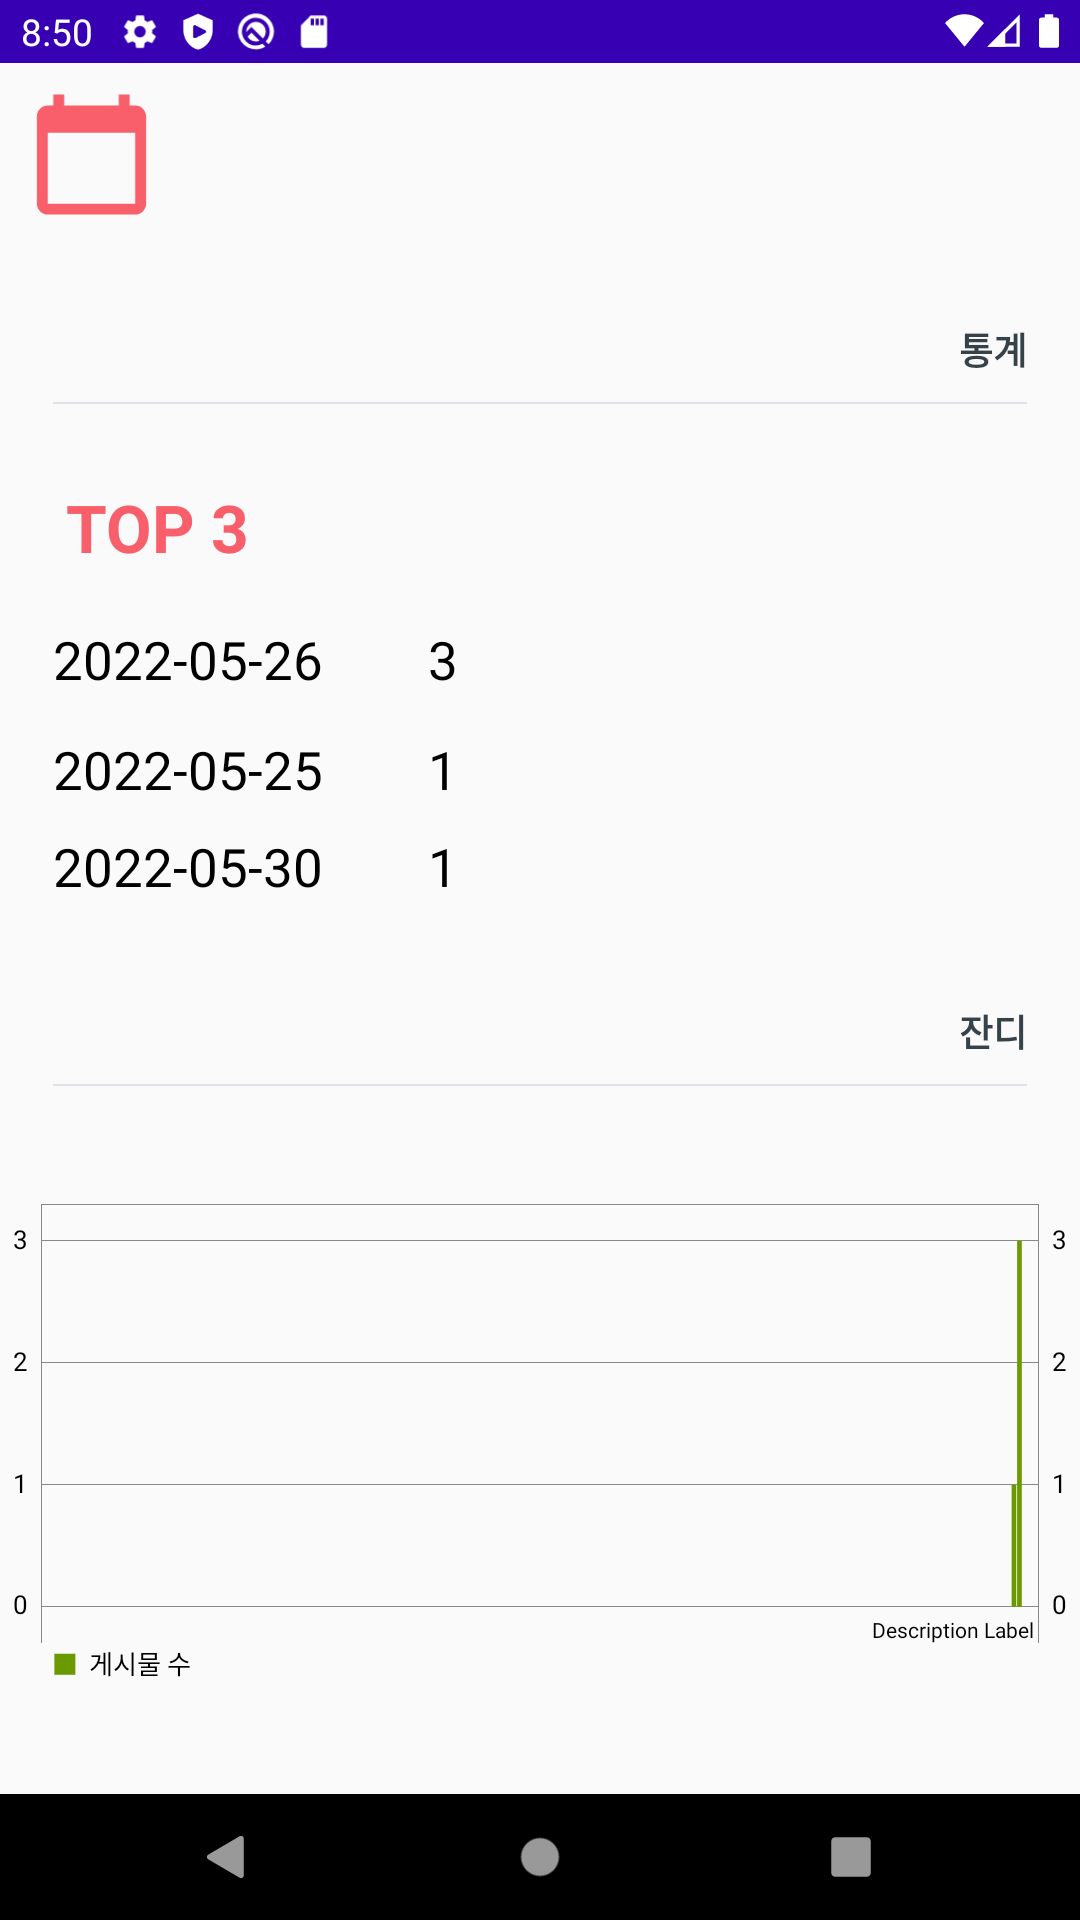
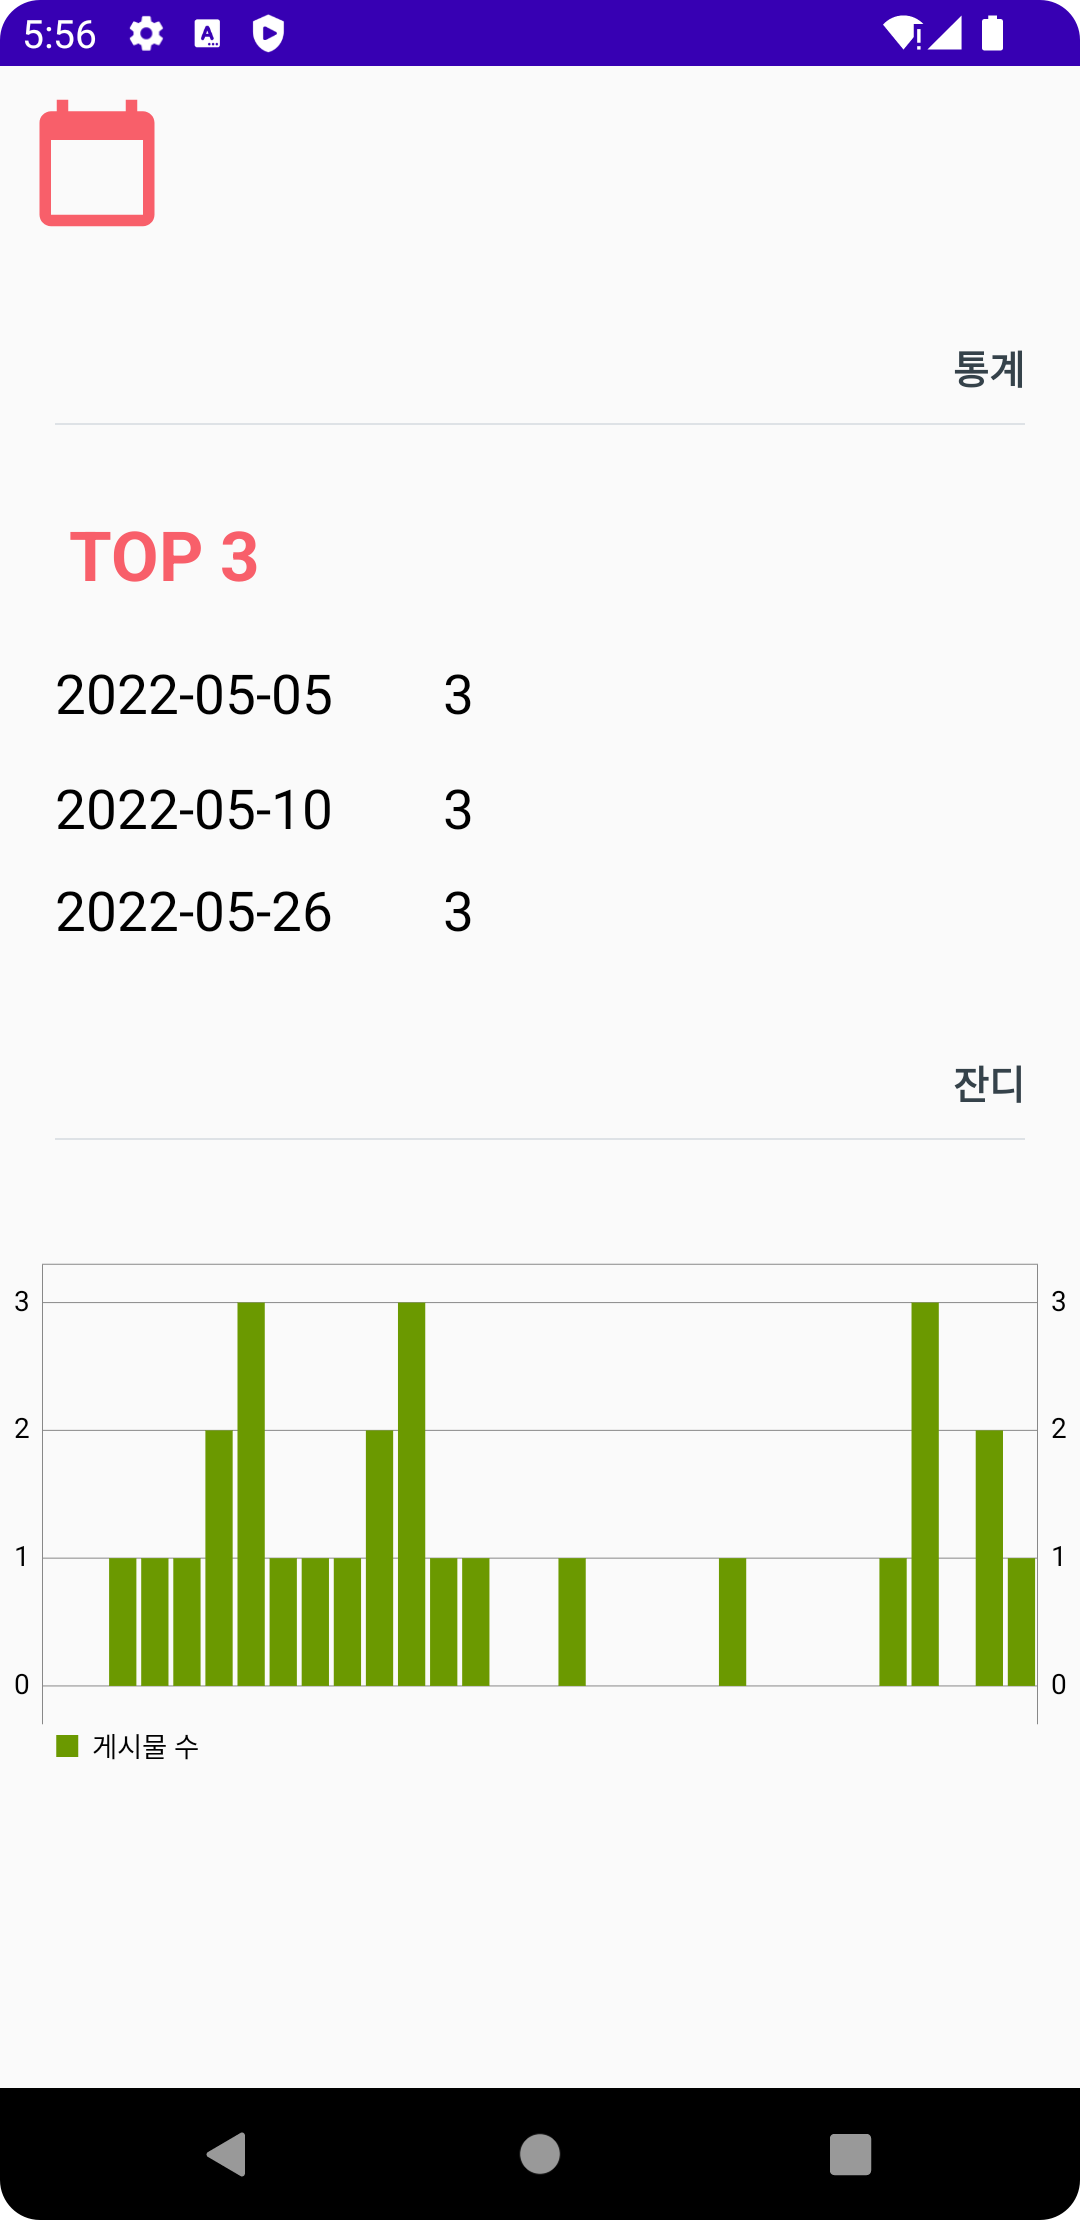
마이페이지 잔디 뷰 개선

diff --git a/app/src/main/java/com/example/til/MyPageFunc.kt b/app/src/main/java/com/example/til/MyPageFunc.kt
@@ -7,6 +7,7 @@ import android.os.StrictMode
 import android.support.v7.app.AppCompatActivity
 import com.example.til.jwt.AuthInterceptor
 import com.github.mikephil.charting.charts.BarChart
+import com.github.mikephil.charting.components.Description
 import com.github.mikephil.charting.data.BarData
 import com.github.mikephil.charting.data.BarDataSet
 import com.github.mikephil.charting.data.BarEntry
@@ -41,13 +42,18 @@ class MyPageFunc  : AppCompatActivity() {
         }
 
         val barChart : BarChart = findViewById(R.id.barChart)
-        val DataSet = BarDataSet(barList, title)
-        DataSet.setColor(Color.rgb(107,153,0))
-        val data= BarData(DataSet)
+        val dataSet = BarDataSet(barList, title)
+        dataSet.setColor(Color.rgb(107,153,0))
+        dataSet.setDrawValues(false)
+        val data= BarData(dataSet)
+
+        val description = Description()
+        description.setEnabled(false)
+        barChart.setDescription(description)
+
         // 격자선 제거
         barChart.getXAxis().setDrawGridLines(false)
         barChart.getAxisLeft().setDrawGridLines(false)
-
         barChart.getXAxis().setDrawLabels(false)
 
         // y축 간격 조절
@@ -118,7 +124,7 @@ class MyPageFunc  : AppCompatActivity() {
                 val json : JSONObject = JSONObject(responseStr)
                 var json_arr : JSONArray =json.getJSONArray("data")
 
-                for(i in 0 until json_arr.length()){
+                for(i in 150 until json_arr.length()){
                     var json_content : JSONObject = json_arr.getJSONObject(i)
                     var post : Post = Post(
                         json_content.getString("date"),
